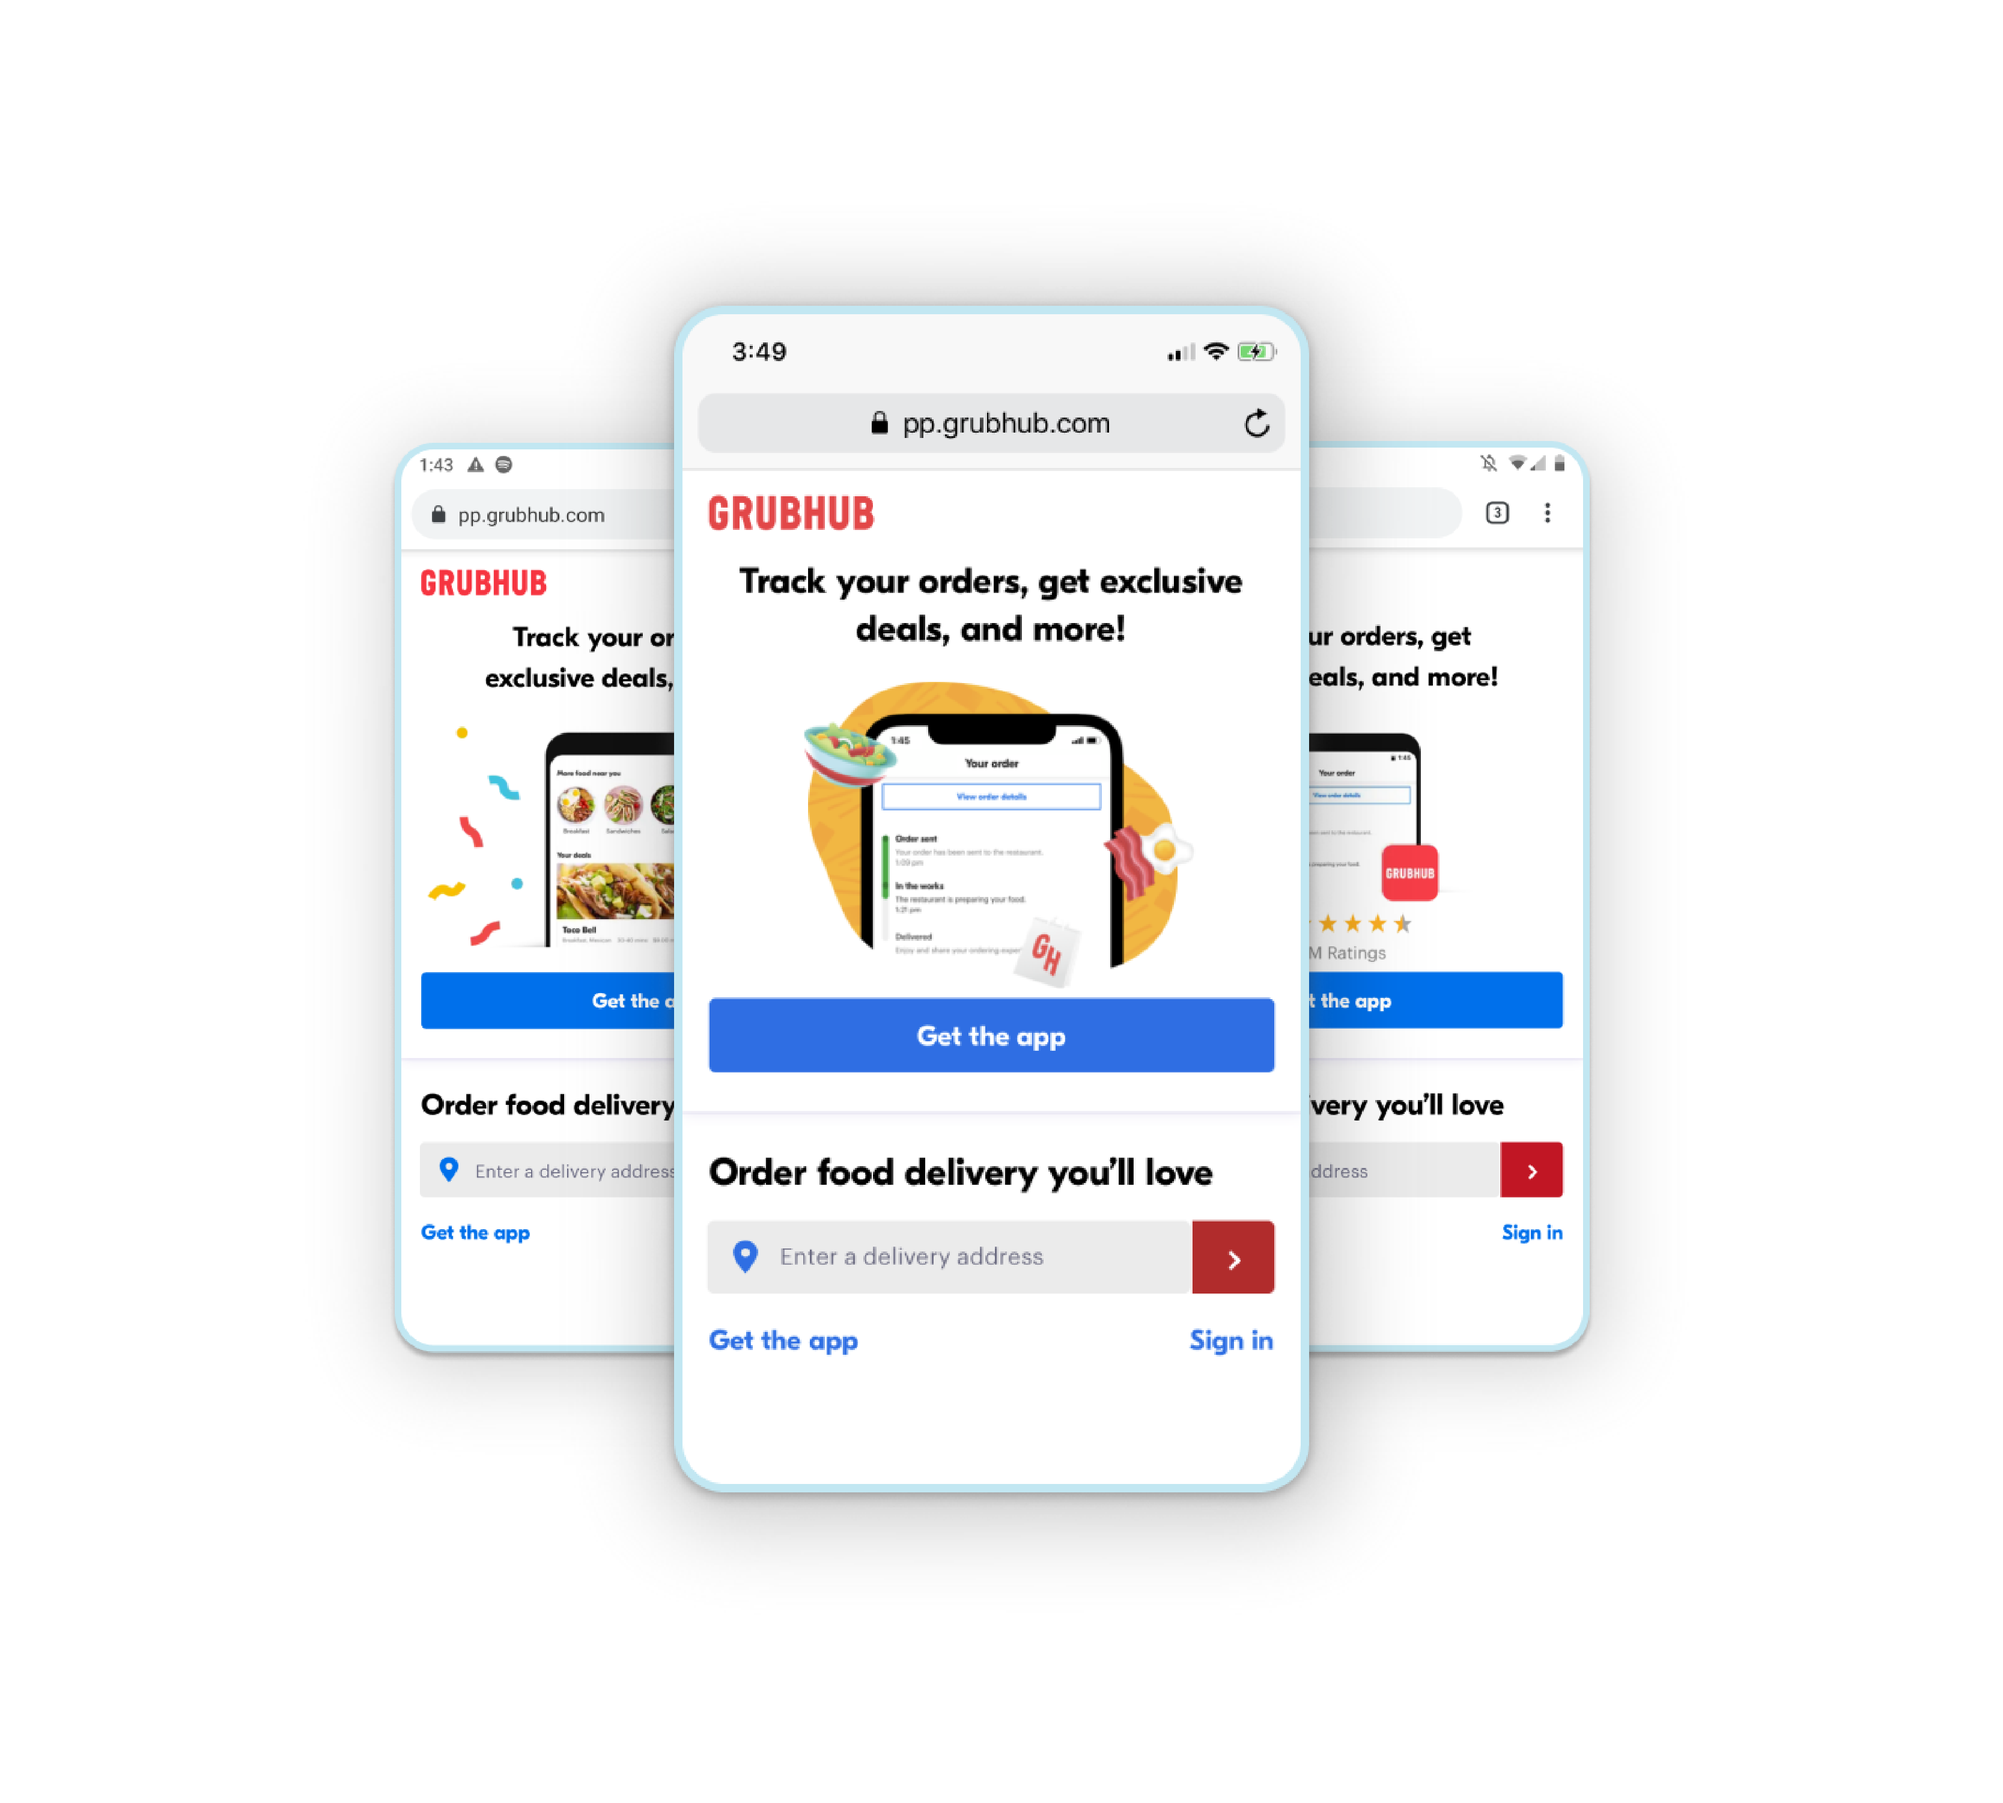
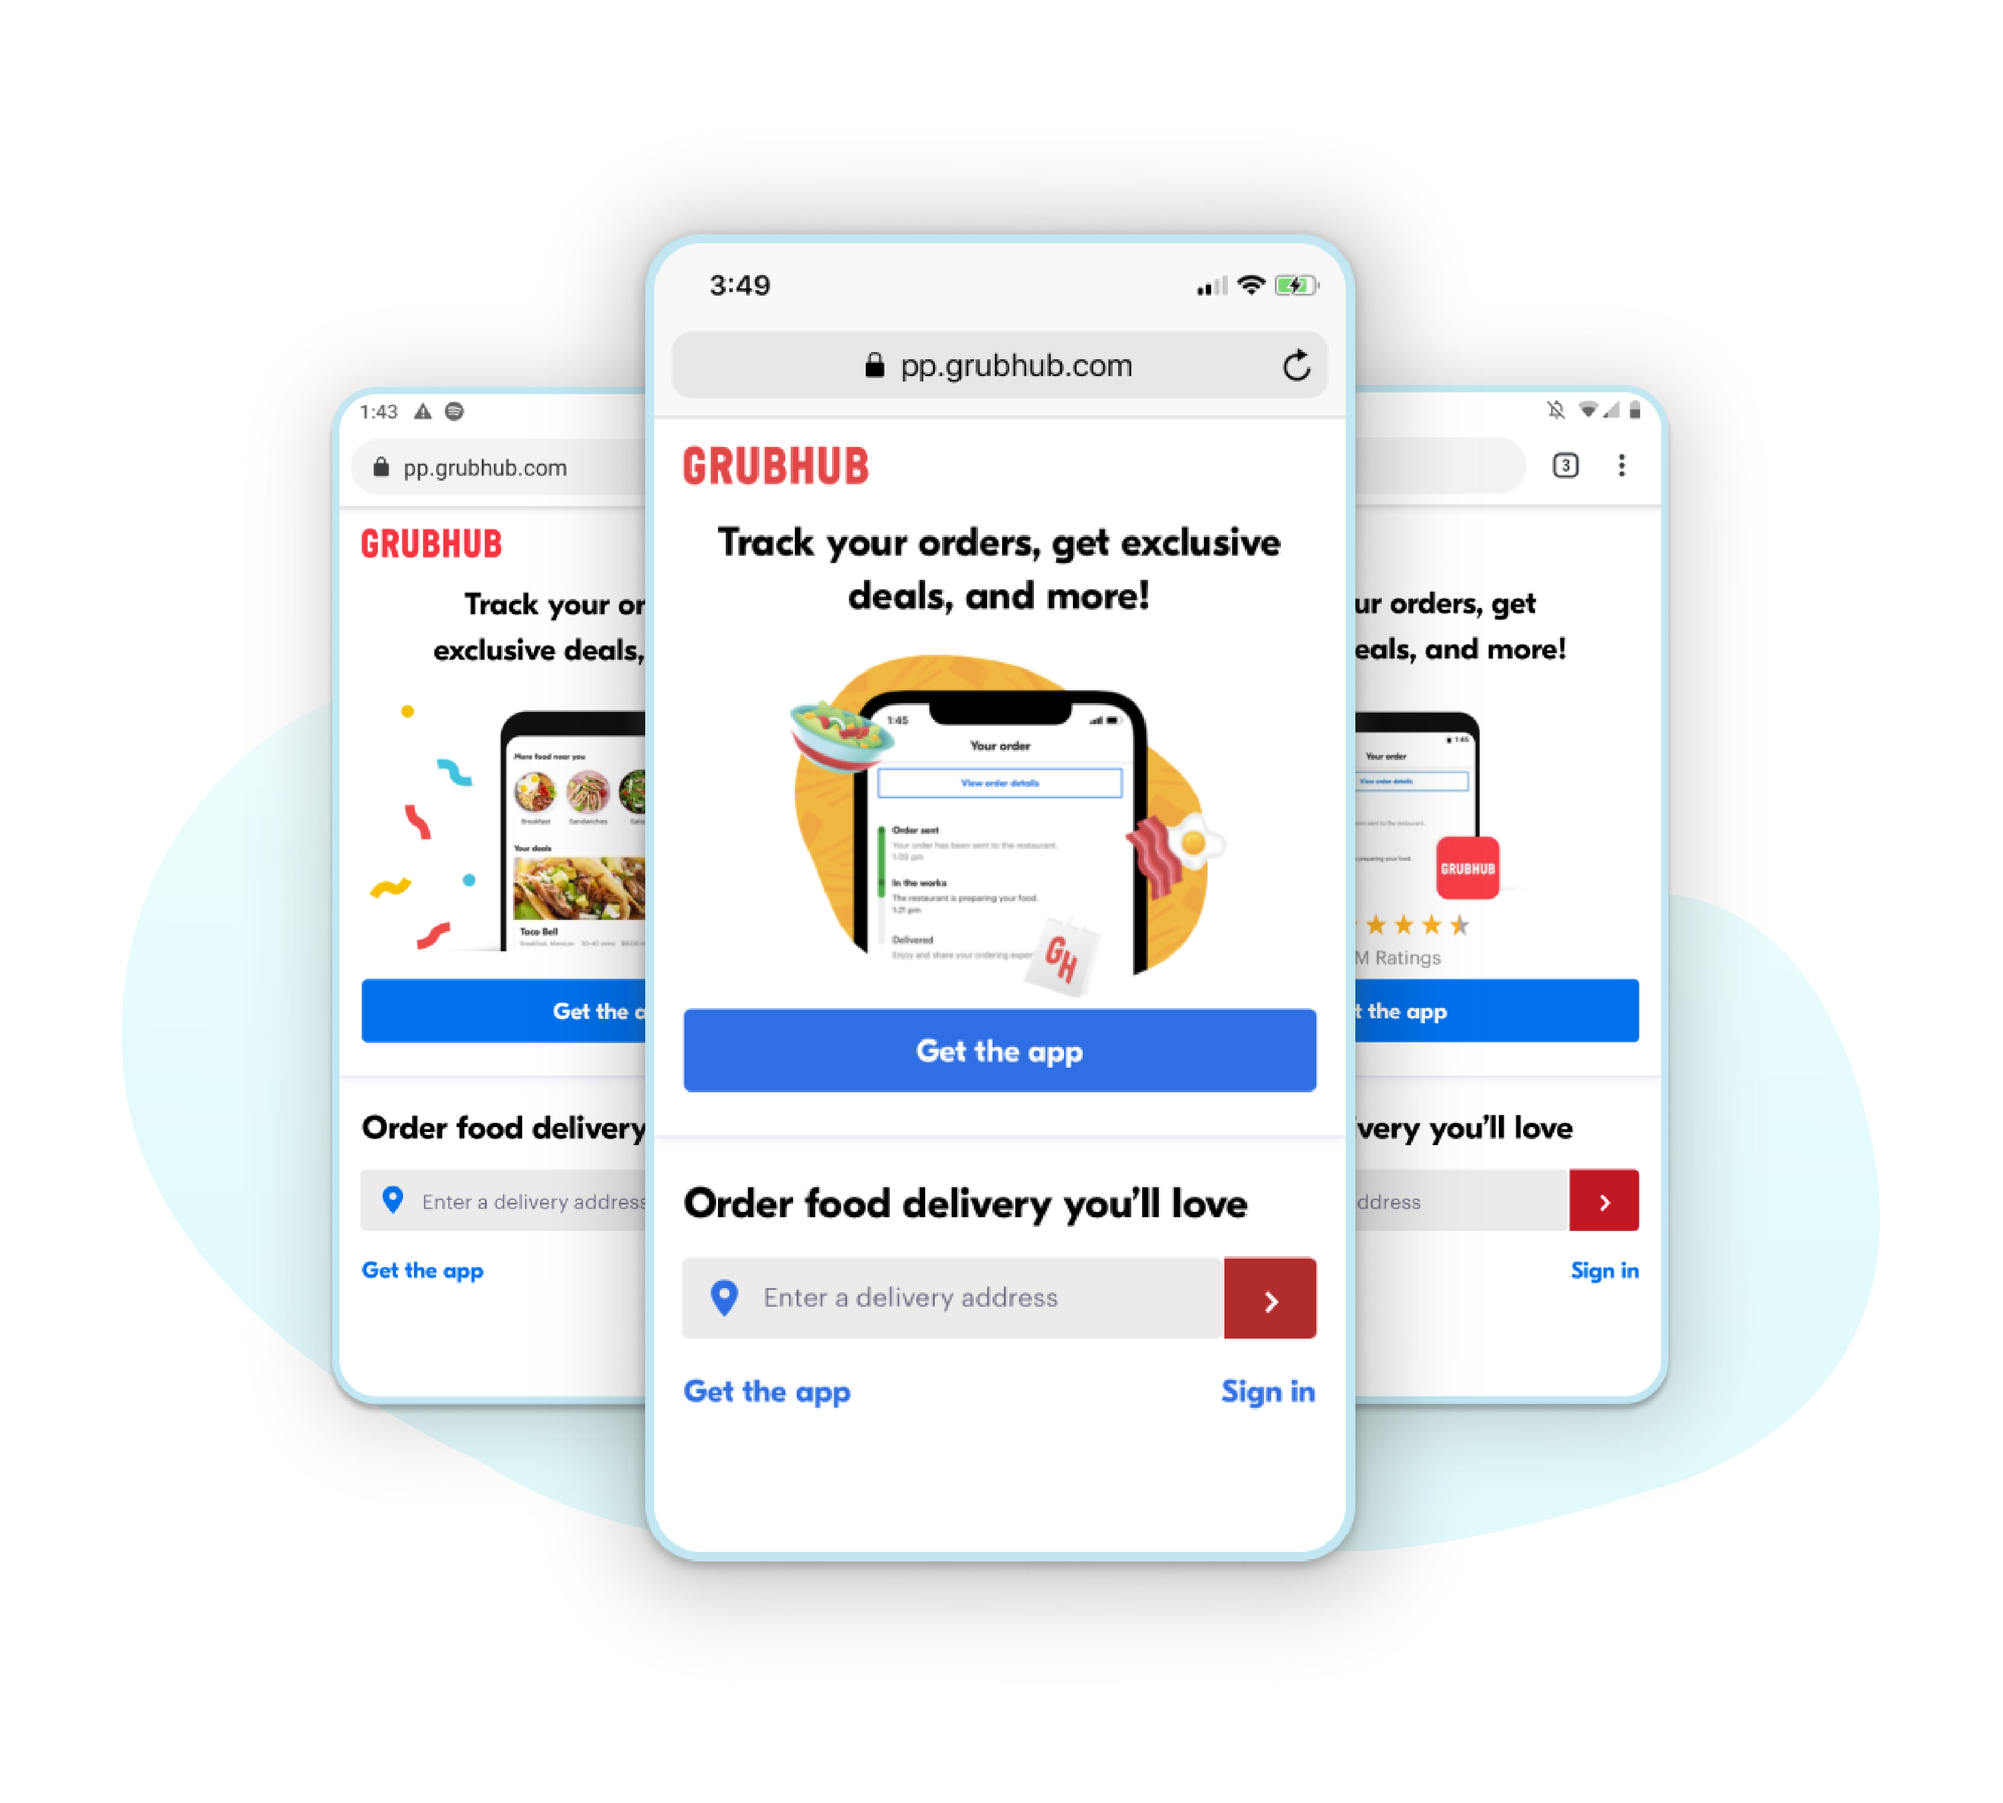
added two project cover images

Changed region(s): [[0.0624, 0.093, 0.9358, 0.8987]]

diff --git a/src/modules/engineering-projects/grubhub/projects/autocomplete.tsx b/src/modules/engineering-projects/grubhub/projects/autocomplete.tsx
@@ -31,7 +31,7 @@ export interface IAutocompleteProps {}
 const AutocompleteComponent = styled.div``;
 
 const autocompleteTemplate: IProjectTemplateProps = {
-  bgColor: '#C7EDE6',
+  bgColor: '#fff',
   imageAlt: 'Autocomplete Illustration',
   imageSrc: require('assets/grubhub/projects/autocomplete/autocomplete-cover.png'),
   imagePosition: 'left',

diff --git a/src/modules/engineering-projects/grubhub/projects/get-the-app.tsx b/src/modules/engineering-projects/grubhub/projects/get-the-app.tsx
@@ -24,7 +24,7 @@ export interface IGetTheAppProps {}
 const GetTheAppComponent = styled.div``;
 
 const getTheAppTemplate: IProjectTemplateProps = {
-  bgColor: '#c2e7f2',
+  bgColor: '#fff',
   imageAlt: 'Get The App Illustration',
   imageSrc: require('assets/grubhub/projects/mweb-redesign/get-the-app-cover.png'),
   imagePosition: 'left',
